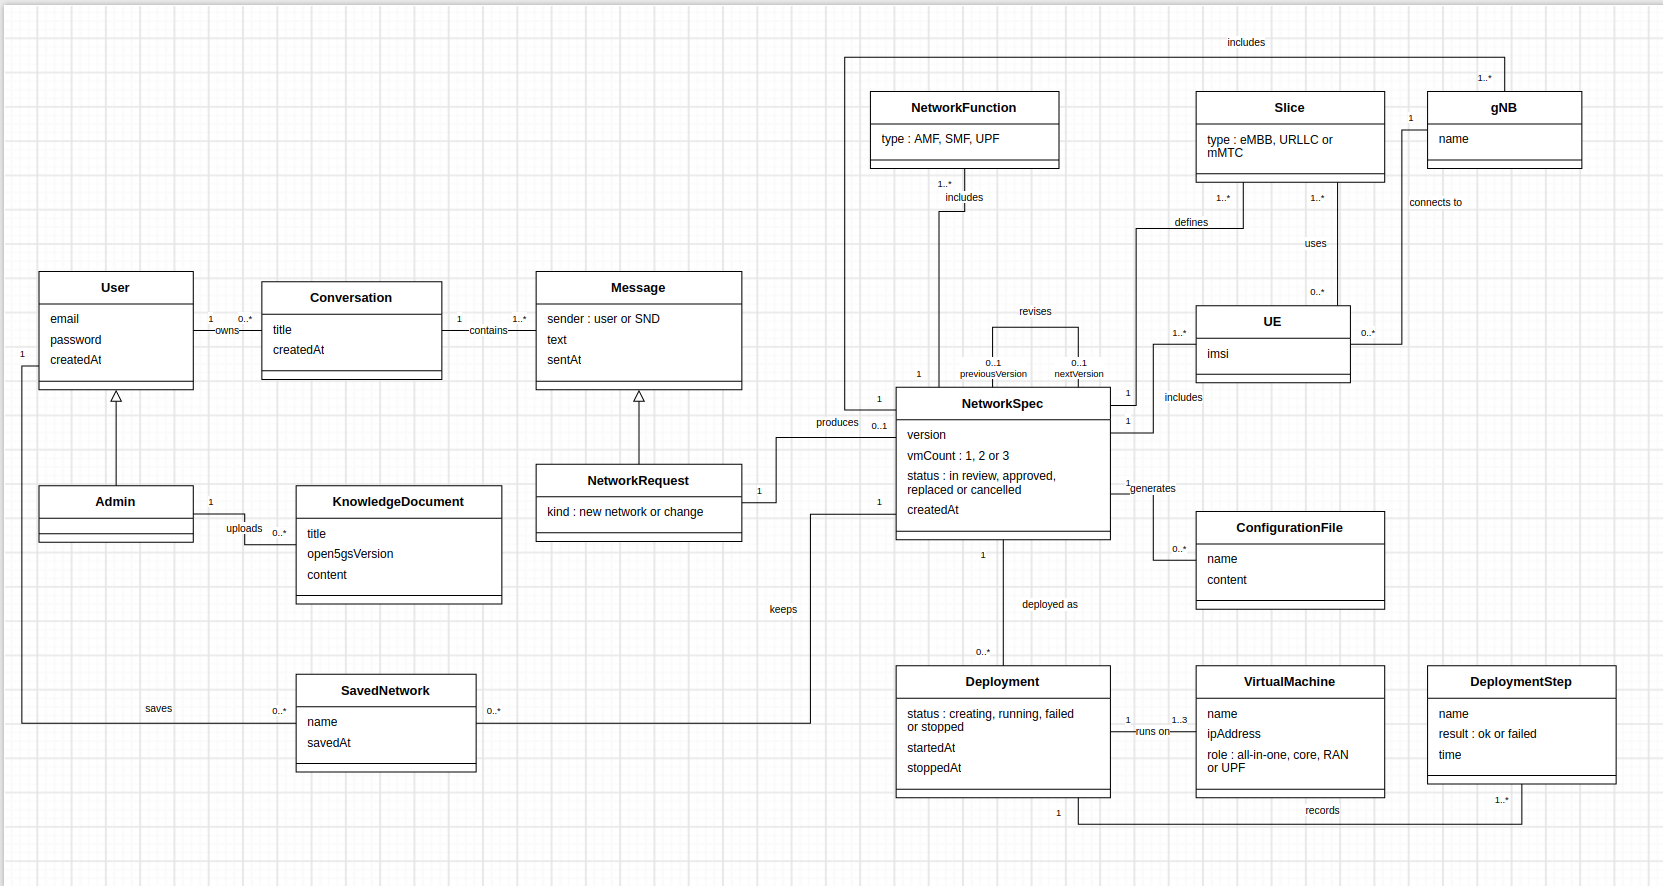
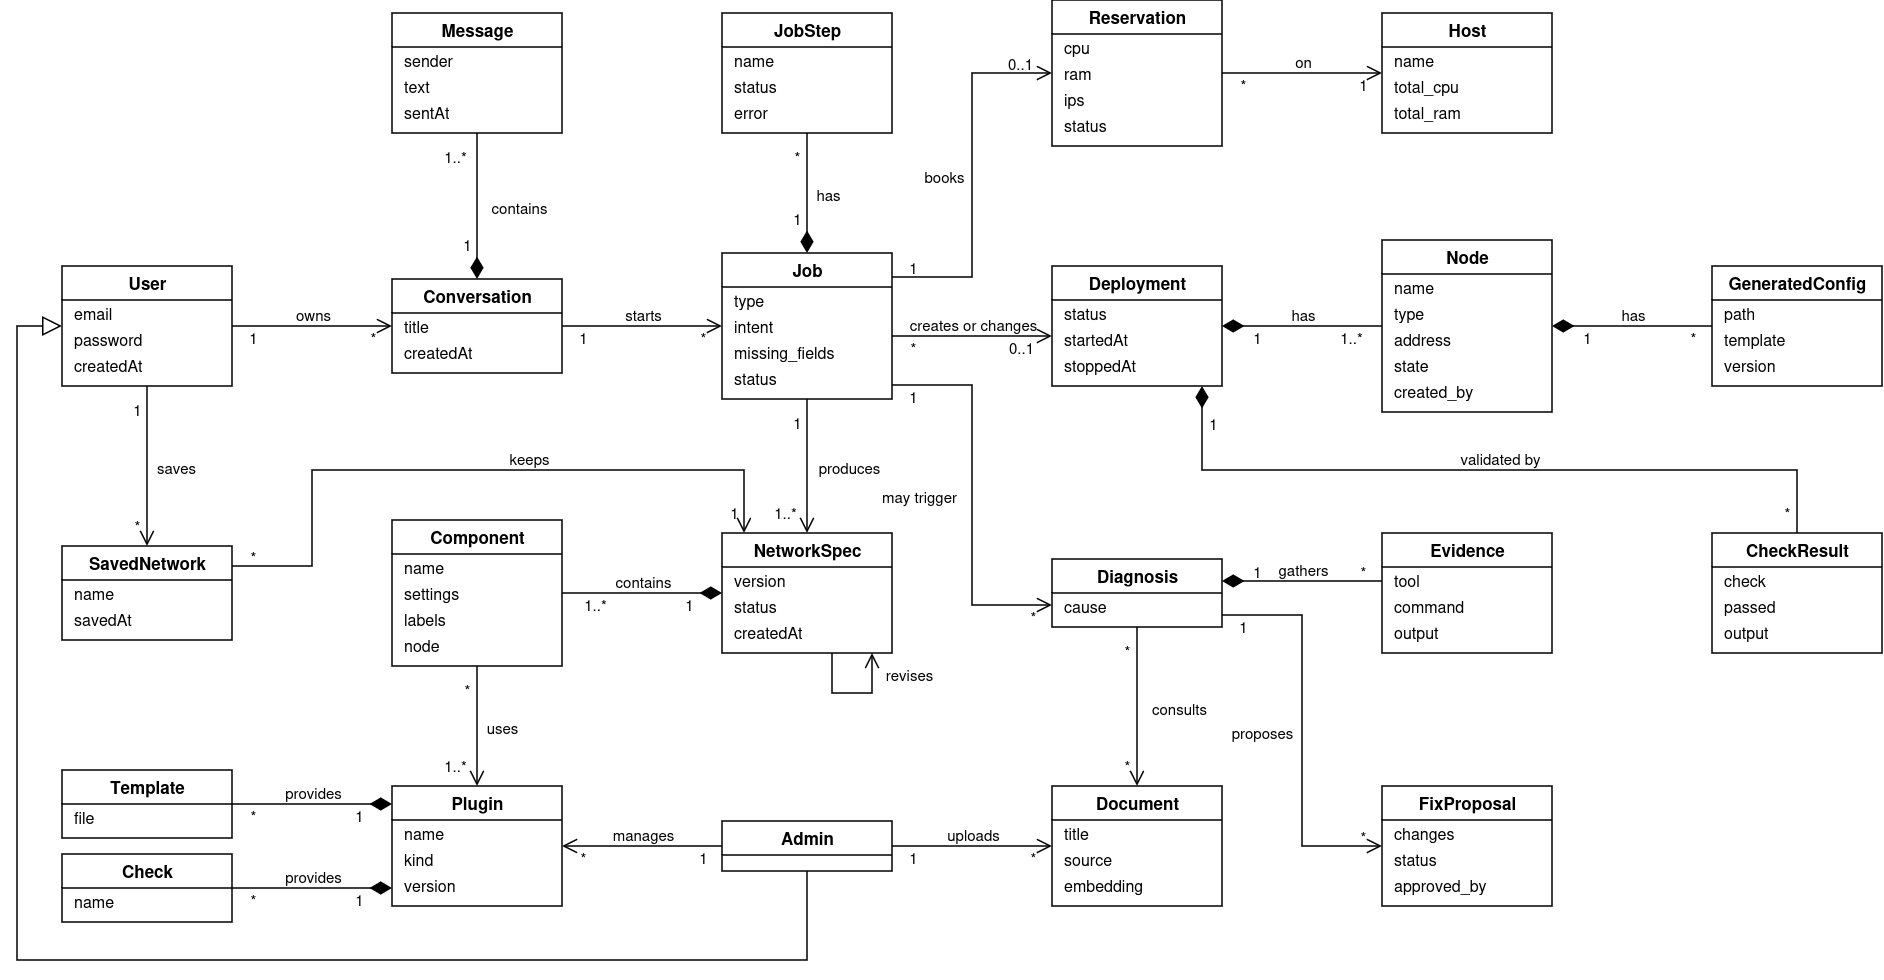
DOM fix

diff --git a/snd-docs/docs/milestones/semester1/ms2-elaboration/domain-model.md b/snd-docs/docs/milestones/semester1/ms2-elaboration/domain-model.md
@@ -5,8 +5,10 @@ sidebar_position: 2
 
 The domain model shows the main concepts SND works with and how they relate to each other.
 
-A **User** talks to SND through a **Conversation** made of **Messages**. When a message asks for a new network or a change, it becomes a **NetworkRequest**, which produces a **NetworkSpec**: the structured plan of the network. The plan lists the 5G core functions (AMF, SMF, UPF), the slices, the antenna (gNB) and the phones (UEs). Each time the user refines the plan, a new version of it is created, linked to the previous one.
+A **User** talks to SND through a **Conversation** made of **Messages**. A conversation starts **Jobs**, each one a unit of work (for example, planning, deploying or diagnosing a network) tracked through its **JobSteps**. A job produces a **NetworkSpec**, the structured plan of the network, made of **Components** (5G core functions, slices, gNB, UEs). Each time the user refines the plan, a new version of the spec is created, revising the previous one. A user can keep a spec as a **SavedNetwork** to reuse it later.
 
-From an approved NetworkSpec, SND can generate **ConfigurationFiles** or create a **Deployment**. A deployment runs on one to three **VirtualMachines** and records each **DeploymentStep**, so the user can follow its progress. A user can also keep a plan as a **SavedNetwork** to reuse it later. An **Admin** is a user who can also upload **KnowledgeDocuments**, the documentation SND reads when planning networks.
+To run a network, a job books a **Reservation** of resources on a **Host** and creates or changes a **Deployment**. A deployment has one or more **Nodes**, each with its **GeneratedConfig** files, and is validated by **CheckResults**. When something fails, a job may trigger a **Diagnosis**, which gathers **Evidence**, consults **Documents** and proposes **FixProposals** that the user approves.
+
+Components use **Plugins**, which provide the **Templates** used to generate configs and the **Checks** used to validate deployments. An **Admin** is a user who also manages plugins and uploads the documents SND consults.
 
 ![Domain model](/img/ms2-elaboration/domain-model.png)
